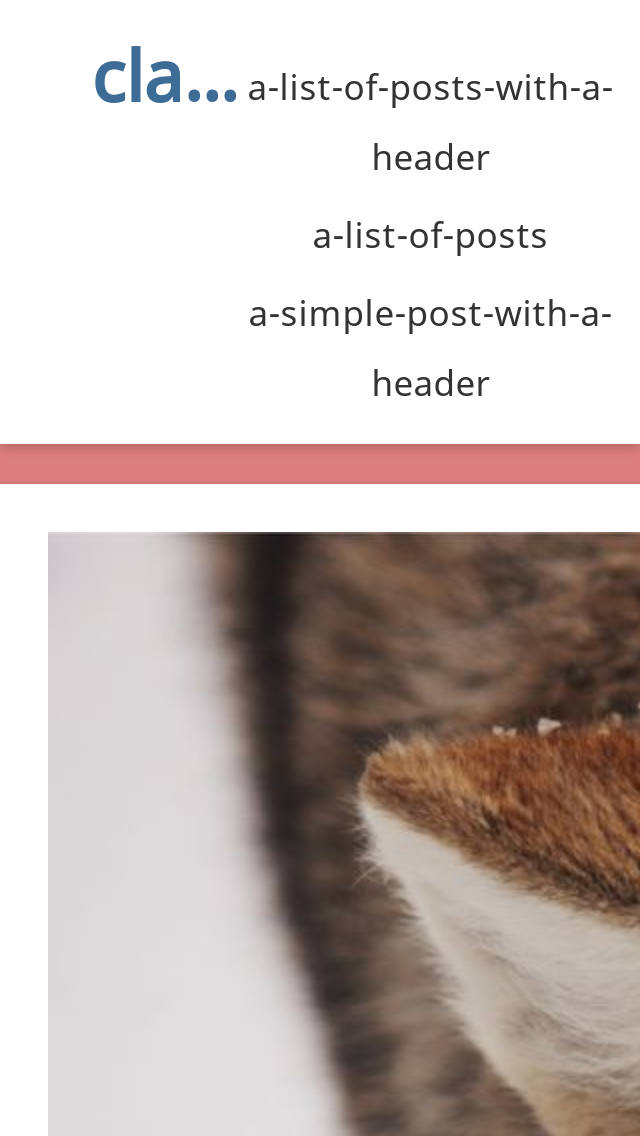
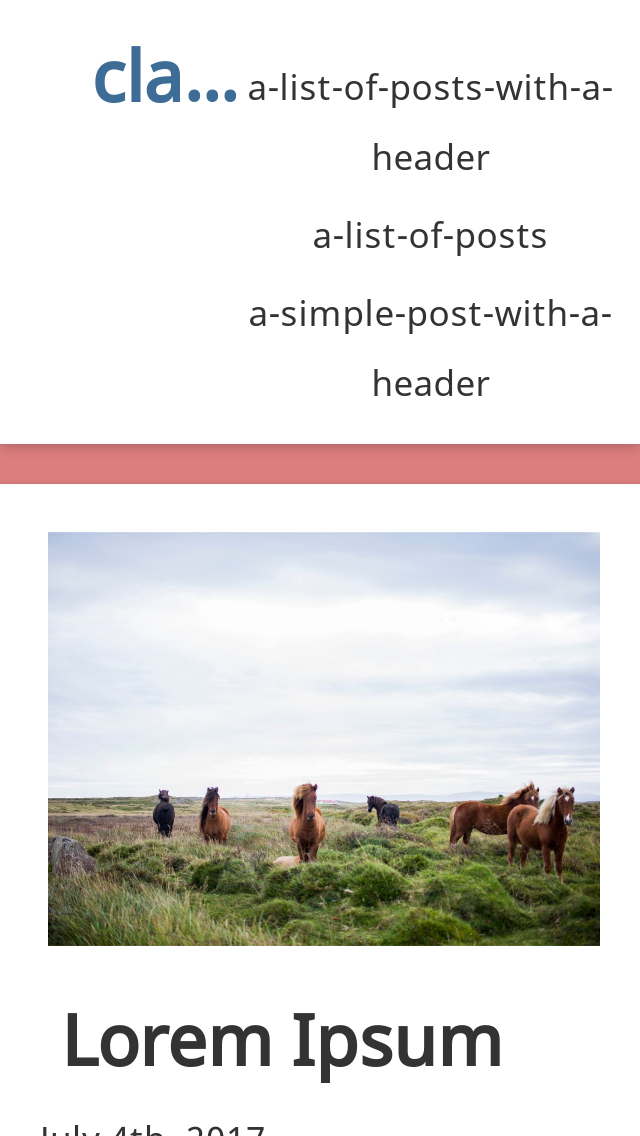
max-width: 100% for <img>s.

diff --git a/themes/aluod/theme.css b/themes/aluod/theme.css
@@ -70,7 +70,7 @@ h1 {
 }
 mark {
   background: #ff0;
-  color: #000000;
+  color: #000;
 }
 small {
   font-size: 80%;
@@ -283,7 +283,7 @@ select {
 }
 select:-moz-focusring {
   color: transparent;
-  text-shadow: 0 0 0 #333333;
+  text-shadow: 0 0 0 #333;
 }
 select option {
   padding: 0.2em 0.5em;
@@ -323,7 +323,7 @@ select option {
   opacity: 0;
 }
 .checkbox input:checked + :before {
-  color: #555555;
+  color: #555;
 }
 .radio {
   position: relative;
@@ -456,19 +456,19 @@ th {
 th {
   font-weight: 900;
   color: #fff;
-  background: #bbbbbb;
+  background: #BBB;
 }
 .primary th {
-  background-color: #0074d9;
+  background-color: #0074D9;
 }
 .success th {
-  background-color: #2ecc40;
+  background-color: #2ECC40;
 }
 .warning th {
-  background-color: #ff851b;
+  background-color: #FF851B;
 }
 .error th {
-  background-color: #ff4136;
+  background-color: #FF4136;
 }
 tr:nth-child(even) {
   background: rgba(0, 0, 0, 0.05);
@@ -618,7 +618,7 @@ nav.transparent {
 }
 nav.transparent a,
 nav.transparent a:visited {
-  color: #ffffff;
+  color: #FFF;
 }
 nav a,
 nav a:visited {
@@ -752,7 +752,7 @@ nav .menu {
     margin: 0.7em 0.5em 0.5em;
   }
   .transparent .menu {
-    color: #333333;
+    color: #333;
   }
 }
 nav {
@@ -782,7 +782,7 @@ body {
   padding: 0;
   margin: 0;
   border: none;
-  background-color: #dd7e7e;
+  background-color: #DD7E7E;
   color: white;
 }
 .paper {
@@ -792,12 +792,15 @@ body {
   box-shadow: 0 1px 4px rgba(0, 0, 0, 0.3);
   margin-bottom: 60px;
 }
+img {
+  max-width: 100%;
+}
 body > header {
   width: 30%;
   position: absolute;
   top: 0;
   left: 2em;
-  color: #3d6d96;
+  color: #3D6D96;
   font-weight: inherit;
   font-family: inherit;
 }
@@ -829,7 +832,7 @@ body > nav ul li {
   display: inline;
 }
 body > aside {
-  background: #3d6d96;
+  background: #3D6D96;
   color: white;
   padding: 2%;
   line-height: 1.1em;
@@ -855,7 +858,7 @@ img {
   margin: 2px;
 }
 body > footer {
-  background: #3d6d96;
+  background: #3D6D96;
   color: white;
   text-align: center;
   width: 100%;
@@ -906,7 +909,7 @@ main > section > ol li article {
 }
 main > section > ul li article a,
 main > section > ol li article a {
-  color: #60a794;
+  color: #60A794;
 }
 main > section > ul li article header img,
 main > section > ol li article header img {
@@ -951,7 +954,7 @@ main > section > ul li article header time a,
 main > section > ol li article header time a,
 main > section > ul li article header p a,
 main > section > ol li article header p a {
-  color: #3d6d96;
+  color: #3D6D96;
 }
 main > section > ul li article header img + * + aside,
 main > section > ol li article header img + * + aside {
@@ -1028,7 +1031,7 @@ main > article {
   border: 0;
 }
 main > article a {
-  color: #60a794;
+  color: #60A794;
 }
 main > section {
   width: 100%;

diff --git a/themes/jeen/src/style.css b/themes/jeen/src/style.css
@@ -25,6 +25,9 @@ blockquote {
   padding-left: 1em;
 }
 li p { display: inline }
+img {
+  max-width: 100%;
+}
 
 body > header a,
 body > header a:hover,

diff --git a/themes/jeen/theme.css b/themes/jeen/theme.css
@@ -25,6 +25,9 @@ blockquote {
   padding-left: 1em;
 }
 li p { display: inline }
+img {
+  max-width: 100%;
+}
 
 body > header a,
 body > header a:hover,

diff --git a/themes/aluod/src/style.less b/themes/aluod/src/style.less
@@ -29,6 +29,10 @@ html, body {
   margin-bottom: 60px;
 }
 
+img {
+  max-width: 100%;
+}
+
 body > header {
   width: 30%;
   position: absolute;

diff --git a/themes/freelancer/theme.css b/themes/freelancer/theme.css
@@ -44,6 +44,9 @@ body {
   padding: 0;
   margin: 0;
 }
+img {
+  max-width: 100%;
+}
 body > header,
 main > header,
 main > article > header,

diff --git a/themes/README.md b/themes/README.md
@@ -11,6 +11,7 @@
 * [ghostwriter/](ghostwriter//) - A simple blog theme. Better when lists of posts don't bring an excerpt with them.
 * [jeen/](jeen//) - A green and simple theme.
 * [lebo/](lebo//) - A minimal theme that uses white backgrounds. Adapted from http://lebo.io/.
+* [numa/](numa//) - 
 * [plain/](plain//) - A small theme for simple websites where content matters more than design.
 * [subtle/](subtle//) - A simple and minimalist theme that shows a sidebar with header and aside content in it. Better for simple text blogs with not much header images.
 * [wardrobe/](wardrobe//) - A minimal and clean blog theme.
